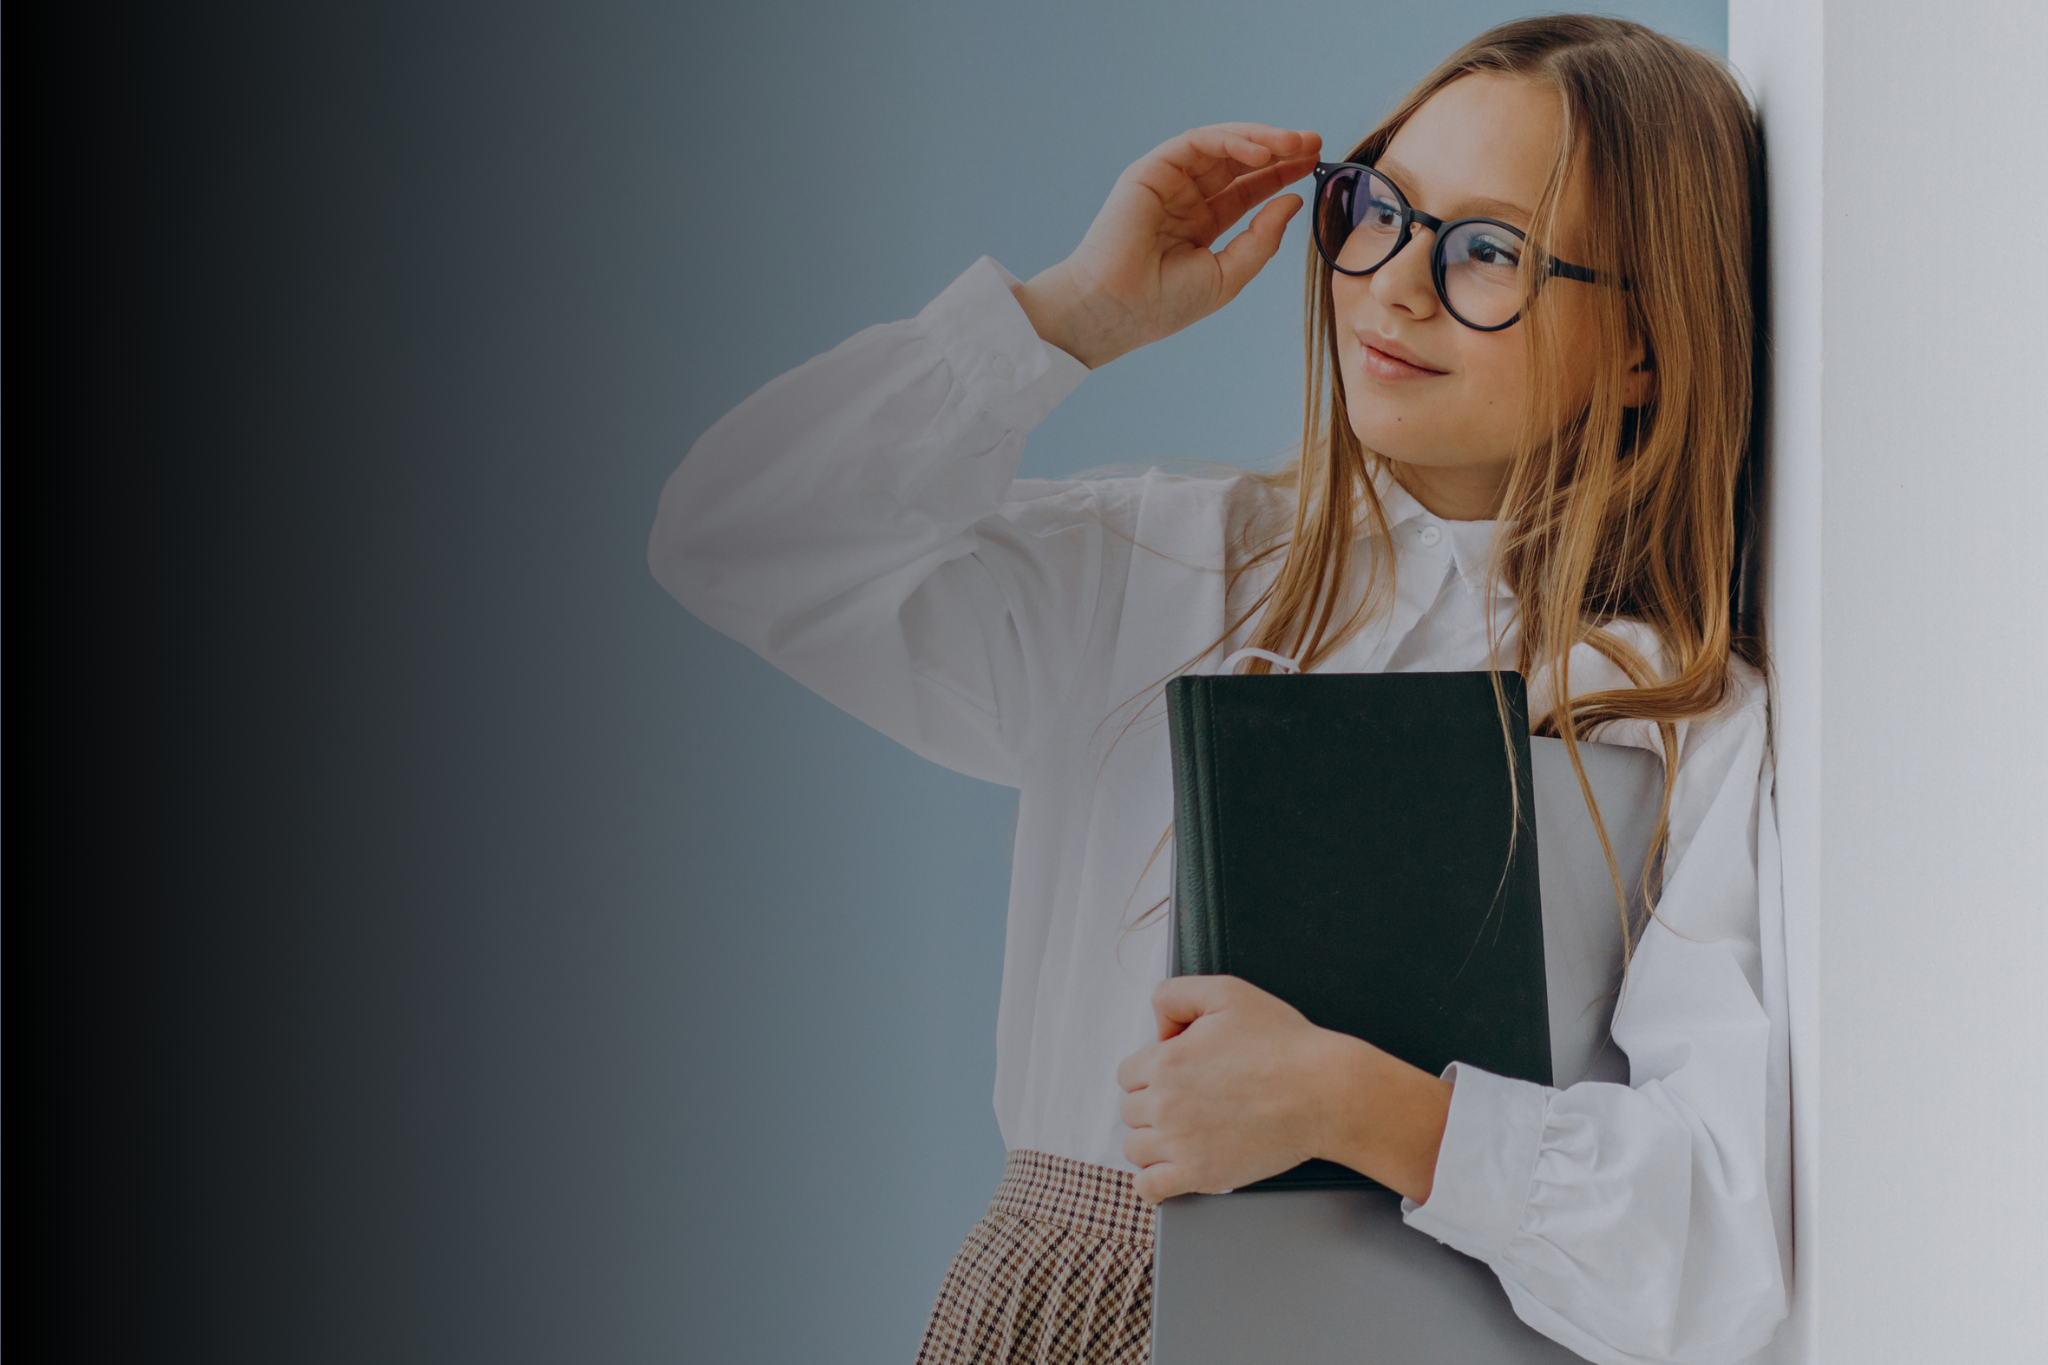
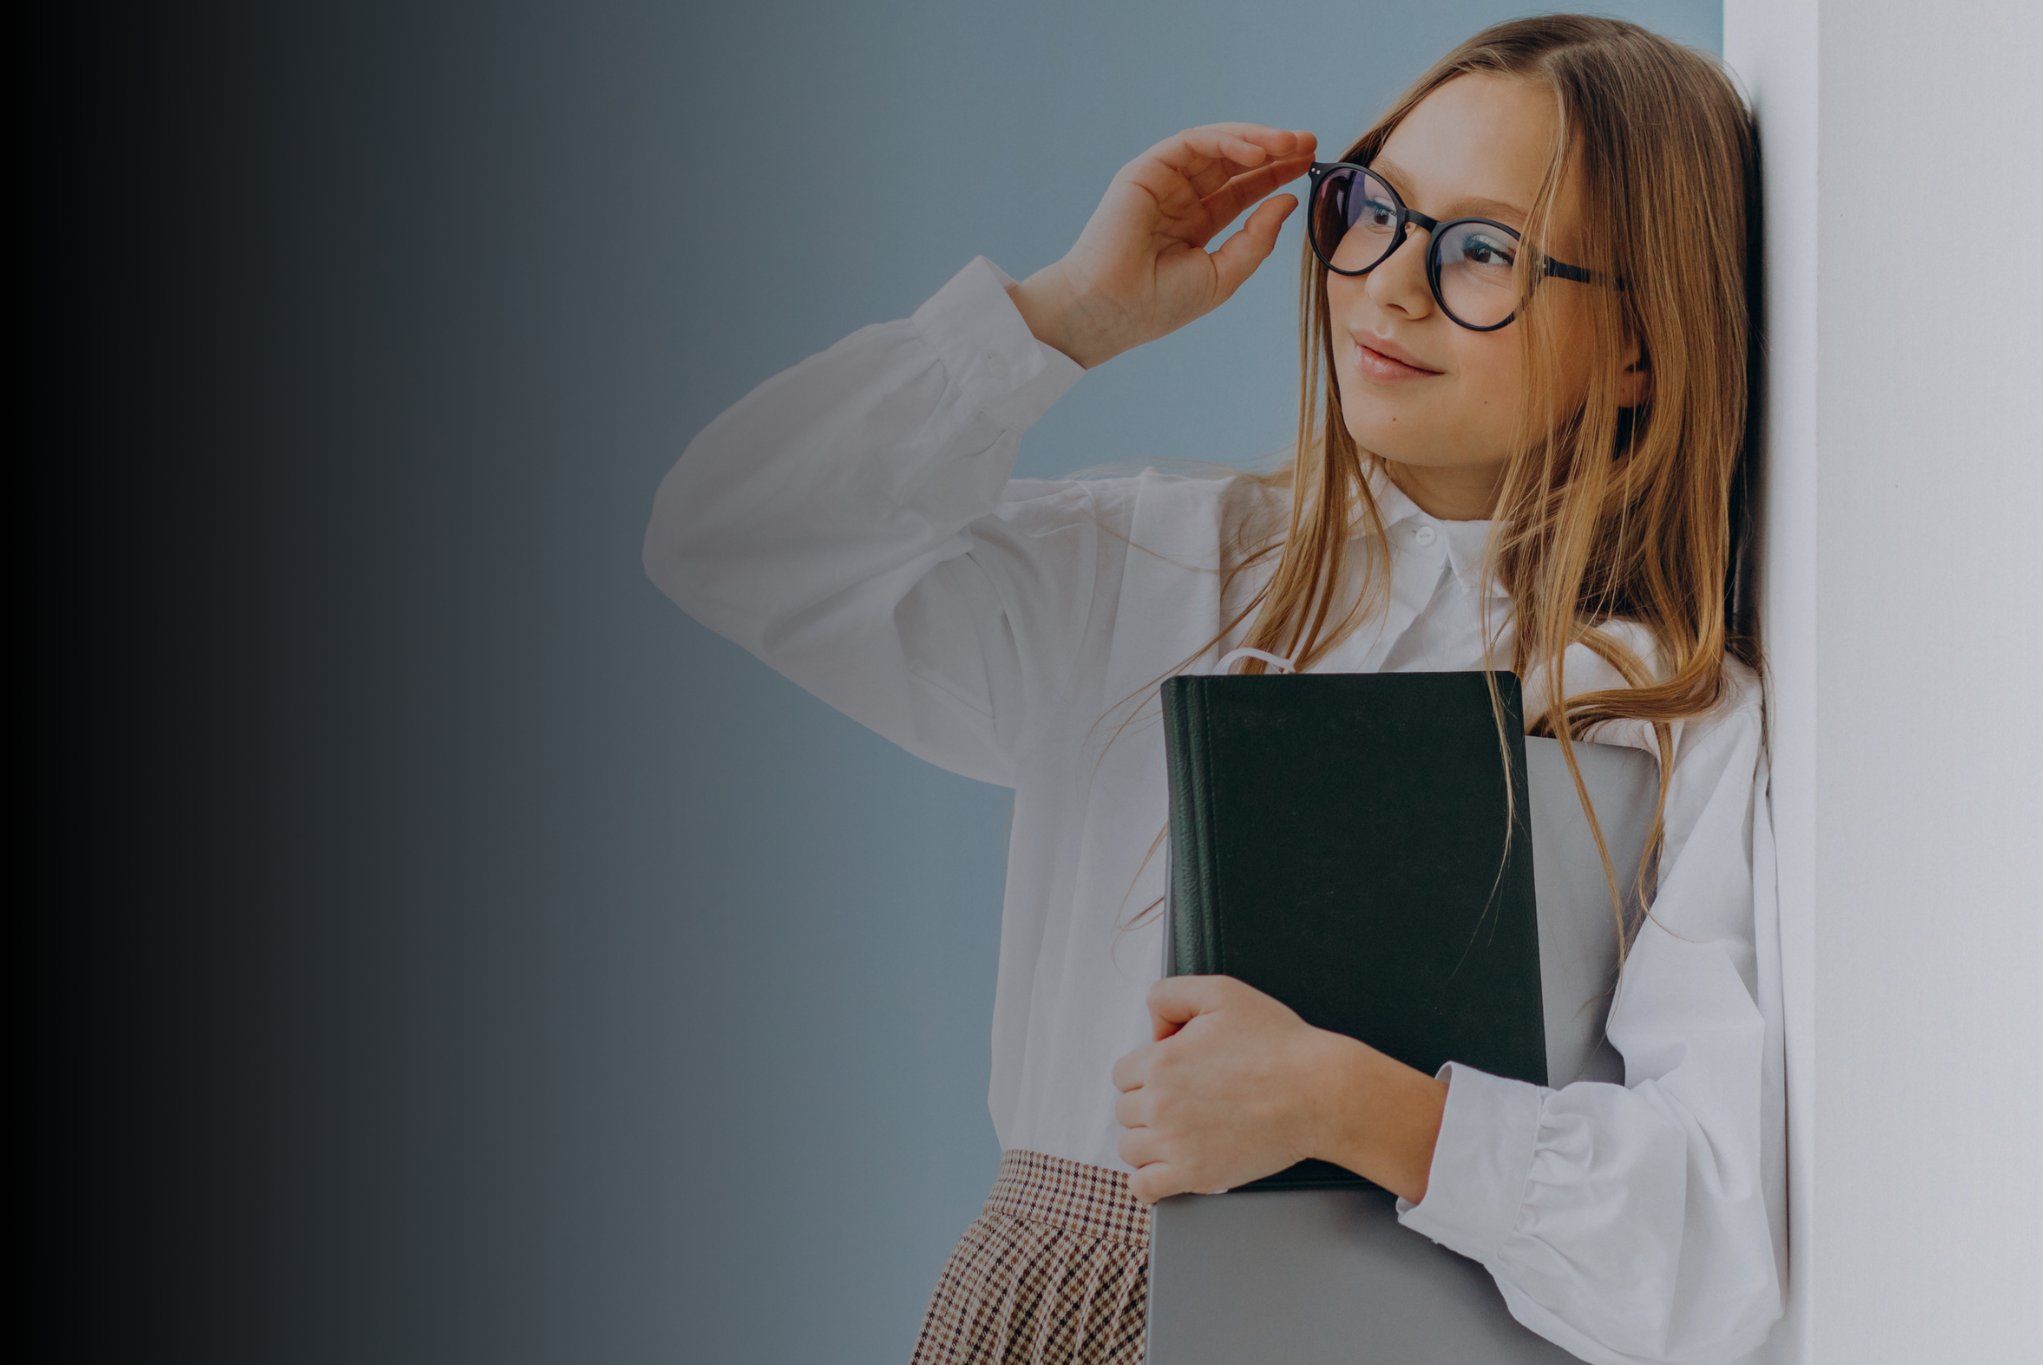
iniciando responsividade da header page

diff --git a/public/css/style.css b/public/css/style.css
@@ -11,7 +11,8 @@ body {
 #header {
     width: 100%;
     height: 100vh;
-    background-image: url('../assets/nexus/menina.png');
+    /* background-image: url('../assets/nexus/menina.png'); */
+    background-image: url('../assets/nexus/menina2.png');
     background-size: cover;
     background-position: top;
     background-repeat: no-repeat;
@@ -201,5 +202,80 @@ body {
 
     100% {
         transform: rotate(25deg)
+    }
+}
+
+/* Media queries para responsividade */
+@media (max-width: 768px) {
+    #header {
+        background-image: url('../assets/nexus/menina-mobile.jpg');
+    }
+
+    .nav {
+        flex-direction: column;
+        align-items: flex-start;
+    }
+
+    .nav-menu,
+    .nav-login {
+        flex-direction: column;
+        gap: 10px;
+        margin-top: 10px;
+    }
+
+    .nav-login {
+        position: static;
+        margin-top: 10px;
+    }
+
+    .header-text {
+        width: 90%;
+        margin-left: 5%;
+    }
+
+    .header-text h1 {
+        font-size: 40px;
+    }
+
+    .header-text p {
+        width: 100%;
+        font-size: 18px;
+    }
+
+    .header-text button {
+        width: 50%;
+    }
+}
+
+@media (max-width: 480px) {
+    #header {
+        background-image: url('../assets/nexus/menina-mobile.jpg');
+        
+    }
+
+    .logo {
+        width: 100px;
+        height: 60px;
+    }
+
+    .nav-menu,
+    .nav-login {
+        gap: 5px;
+    }
+
+    .menu-item a {
+        font-size: 16px;
+    }
+
+    .header-text h1 {
+        font-size: 30px;
+    }
+
+    .header-text p {
+        font-size: 15px;
+    }
+
+    .header-text button {
+        width: 50%;
     }
 }
